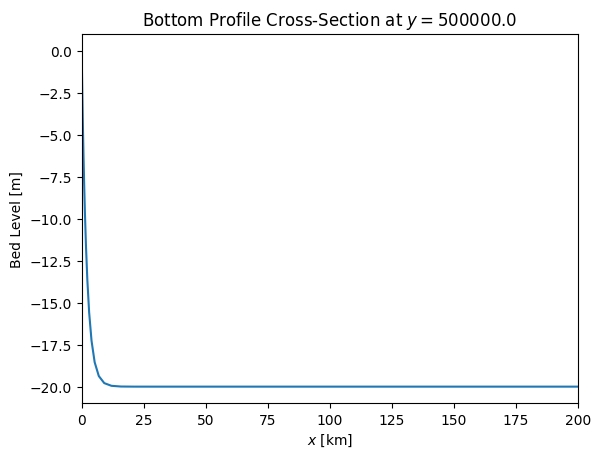
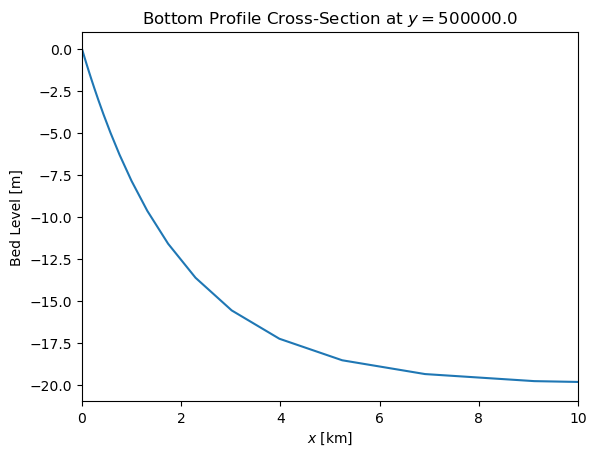
update bathymetry figure

diff --git a/thesis/create_bathymetry.py b/thesis/create_bathymetry.py
@@ -36,7 +36,7 @@ fb.write_bathymetry(data, filename)
 
 
 ###
-fb.plot_bathymetry(data, f"{bathymetry_dir}/fig_exp_00", xmax=x.max()/5.)
+fb.plot_bathymetry(data, f"{bathymetry_dir}/fig_exp_00", xmax=10e3)
 
 # plt.show()
 print("Finished creating bathymetry-files")
